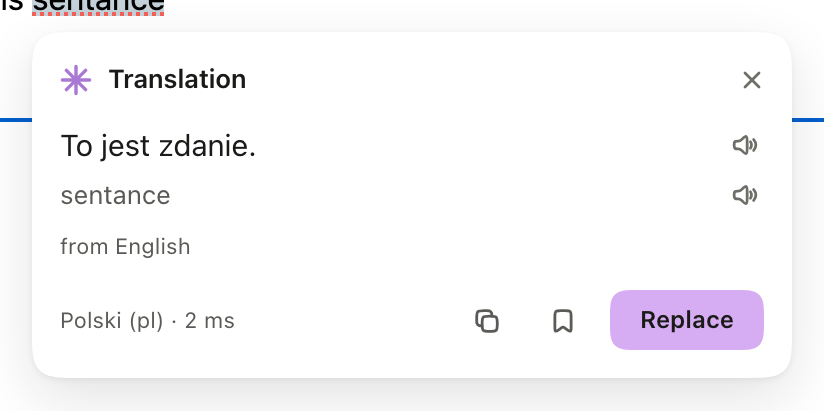
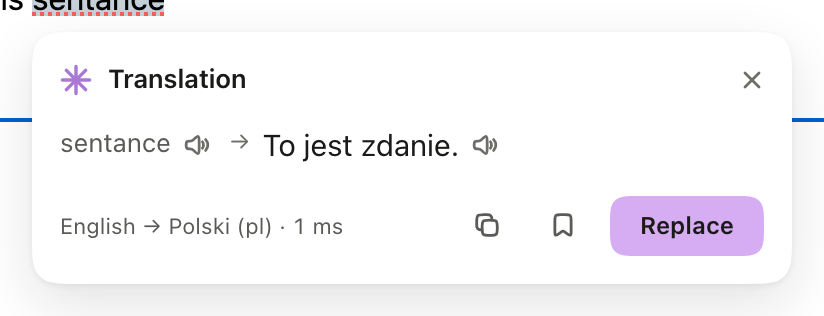
Translation card: one dictionary row instead of three

diff --git a/content/ui.js b/content/ui.js
@@ -53,9 +53,11 @@
     '.ww-head{display:flex;align-items:center;gap:8px}', '.ww-mark{color:#d6adf2;display:inline-flex}',
     '.ww-title{flex:1;min-width:0;font-weight:600;white-space:nowrap;overflow:hidden;text-overflow:ellipsis}',
     '.ww-x{display:inline-flex;align-items:center;justify-content:center;width:24px;height:24px;border:0;border-radius:999px;corner-shape:squircle;background:none;color:#8d8d89;cursor:pointer}', '.ww-tools{display:flex;align-items:center;gap:2px;margin:-4px -6px -4px 0}',
-    '.ww-line{display:flex;align-items:flex-start;gap:8px}', '.ww-line-src{margin-top:4px}',
-    '.ww-og{margin:0;color:#aeaeaa;font-size:13px;line-height:1.5;overflow-wrap:anywhere}',
-    '.ww-say{display:inline-flex;align-items:center;justify-content:center;flex:0 0 auto;width:22px;height:22px;margin:-1px -3px 0 0;padding:0;border:0;border-radius:999px;background:none;color:#8d8d89;cursor:pointer}',
+    '.ww-pair{display:flex;flex-wrap:wrap;align-items:flex-start;gap:2px 6px;min-width:0}',
+    '.ww-unit{display:inline-flex;align-items:flex-start;gap:3px;min-width:0;max-width:100%}', '.ww-unit-trans{flex:1 1 auto}',
+    '.ww-arrow{color:#8d8d89;font-size:12px;line-height:1.45}',
+    '.ww-og{margin:0;max-width:18ch;color:#aeaeaa;font-size:13px;line-height:1.5;overflow:hidden;text-overflow:ellipsis;white-space:nowrap}',
+    '.ww-say{display:inline-flex;align-items:center;justify-content:center;flex:0 0 auto;width:20px;height:20px;margin:0;padding:0;border:0;border-radius:999px;background:none;color:#8d8d89;cursor:pointer}',
     '.ww-body{flex:1;min-height:0;overflow:auto;margin-top:12px}', '.ww-foot{display:flex;gap:8px;align-items:center;margin-top:14px}',
     '.ww-meta{flex:1;min-width:0;font-size:11px;color:#aeaeaa;white-space:nowrap;overflow:hidden;text-overflow:ellipsis}',
     '.ww-btn{height:30px;padding:0 14px;border-radius:999px;corner-shape:squircle;font:600 12px/1 inherit;cursor:pointer;border:1px solid transparent;background:none;color:#f2f2f0}',
@@ -409,7 +411,8 @@
       const ms = formatMs(data.ms);
       const metaBits = [];
       if (data.saved) metaBits.push('Saved');
-      if (target) metaBits.push(target);
+      if (source && target) metaBits.push(source + ' → ' + target);
+      else if (target) metaBits.push(target);
       if (ms) metaBits.push(ms);
       const copyLabel = data.copied ? 'Copied' : 'Copy';
       const copyIcon = iconBtnHTML('copy', copyLabel, copyLabel,
@@ -434,19 +437,21 @@
       const original = str(data.source);
       head = headHTML({ title: 'Translation' });
       body = '<div class="ww-body">' +
-        '<div class="ww-line">' +
-          '<p class="ww-trans" data-ww-trans>' + esc(translation) + '</p>' +
-          (spoken && translation
-            ? sayHTML('target', 'Play translation pronunciation', 'Play the translation')
+        '<div class="ww-pair">' +
+          (original
+            ? '<span class="ww-unit">' +
+                '<span class="ww-og" data-ww-source title="' + esc(original) + '">' + esc(original) + '</span>' +
+                (spoken ? sayHTML('source', 'Play original pronunciation', 'Play the original word') : '') +
+              '</span>' +
+              '<span class="ww-arrow" aria-hidden="true">→</span>'
             : '') +
+          '<span class="ww-unit ww-unit-trans">' +
+            '<span class="ww-trans" data-ww-trans>' + esc(translation) + '</span>' +
+            (spoken && translation
+              ? sayHTML('target', 'Play translation pronunciation', 'Play the translation')
+              : '') +
+          '</span>' +
         '</div>' +
-        (original
-          ? '<div class="ww-line ww-line-src">' +
-              '<p class="ww-og" data-ww-source>' + esc(original) + '</p>' +
-              (spoken ? sayHTML('source', 'Play original pronunciation', 'Play the original word') : '') +
-            '</div>'
-          : '') +
-        (source ? '<p class="ww-src">from ' + esc(source) + '</p>' : '') +
         '</div>';
       foot = footHTML(metaBits.join(' · '), buttons);
     } else if (state === 'error' || state === 'setup') {

diff --git a/content/ui.css b/content/ui.css
@@ -189,30 +189,46 @@
 
 /* ── pronunciation ────────────────────────────────────────────────────── */
 
-/* One speaker per line: the button sits on the words it reads aloud, so the
-   original and the translation are separately playable instead of the header
-   guessing which one you meant. */
-.ww-line {
+/* The pair on one line: `original → translation`, each word with the speaker
+   that reads it. Two stacked lines plus a caption cost ~40px of card height for
+   three short strings; the dictionary row costs one, and the language pair
+   moves into the footer meta where it is already being read. */
+.ww-pair {
   display: flex;
+  flex-wrap: wrap;
   align-items: flex-start;
-  gap: 8px;
-}
-
-.ww-line > :first-child {
-  flex: 1 1 auto;
+  gap: 2px 6px;
   min-width: 0;
 }
 
-.ww-line-src {
-  margin-top: 4px;
+.ww-unit {
+  display: inline-flex;
+  align-items: flex-start;
+  gap: 3px;
+  min-width: 0;
+  max-width: 100%;
+}
+
+.ww-unit-trans {
+  flex: 1 1 auto;
+}
+
+.ww-arrow {
+  flex: 0 0 auto;
+  color: var(--ww-tx-3);
+  font-size: var(--ww-fs-12);
+  line-height: 1.45;
 }
 
 .ww-og {
   margin: 0;
+  max-width: 18ch;
   color: var(--ww-tx-2);
   font-size: var(--ww-fs-13);
   line-height: 1.5;
-  overflow-wrap: anywhere;
+  overflow: hidden;
+  text-overflow: ellipsis;
+  white-space: nowrap;
 }
 
 .ww-say {
@@ -220,9 +236,9 @@
   display: inline-flex;
   align-items: center;
   justify-content: center;
-  width: 22px;
-  height: 22px;
-  margin: -1px -3px 0 0;
+  width: 20px;
+  height: 20px;
+  margin: 0;
   padding: 0;
   border: 0;
   border-radius: var(--ww-r-pill);
@@ -531,8 +547,6 @@
   color: var(--ww-tx);
   white-space: pre-wrap;
   overflow-wrap: anywhere;
-  max-height: 190px;
-  overflow-y: auto;
 }
 
 .ww-src {

diff --git a/DESIGN.md b/DESIGN.md
@@ -79,12 +79,15 @@ instructions.
 - **Pills** — tone presets, 24px capsules, muted until active.
 - **Card** — 380px, 14px padding, 24px continuous corners, one shadow, no
   border: the edge is the shadow, not a line.
-  The header is a 20px row: 16px mark, title, then a 24px icon cluster with a
-  2px gap (speaker 13px, close 12px), pulled in 4px vertically and 6px
-  horizontally so the glyphs align with the padding while the hit areas stay
-  24px. Head to body is 12px; the body's answer type is 15px/1.45, and the
-  source label sits 4px under it at 11px, because it is a caption on the
-  answer, not a second paragraph.
+  The header is a 20px row: 16px mark, title, then a 24px close button pulled
+  in 4px vertically and 6px horizontally so the glyph aligns with the padding
+  while the hit area stays 24px. Head to body is 12px. The body is one
+  dictionary row — `original → translation`, original 13px muted and capped at
+  18ch with an ellipsis, translation 15px/1.45, each followed by its own 20px
+  speaker — and the language pair lives in the footer meta (`English → Polski
+  (pl) · 16 ms`). Stacking the original, the translation and a "from English"
+  caption cost three lines and ~45px of height for three short strings; the row
+  says the same thing in one, and the speakers stay attached to their word.
 - **Card footer** — no rule above it: the 14px gap does the separating, and a
   hairline through the quietest part of the card was the last piece of
   furniture in it. One labelled action per state (Apply, Replace, Undo, Add

diff --git a/README.md b/README.md
@@ -206,6 +206,15 @@ mouse/keyboard events: auto-check debounce, request shape, apply/undo on all
 three field types, error persistence, shadow-DOM isolation against hostile CSS,
 per-site pause, word-limit guard, shortcut and selection paths.
 
+## Differences from v2.8.0
+
+- The translation card is one dictionary row again: `sentance → zdanie`, the
+  original muted at 13px, the translation at 15px, each with its own speaker.
+  The "from English" line is gone — the language pair moved into the footer
+  meta as `English → Polski (pl) · 16 ms` — which takes the card from three
+  text lines to one and makes it ~45px shorter. The original is clipped at
+  18ch with an ellipsis and keeps the full text in its `title`.
+
 ## Differences from v2.7.1
 
 - Pronunciation can now use a neural voice. The default is still the OS voice,
